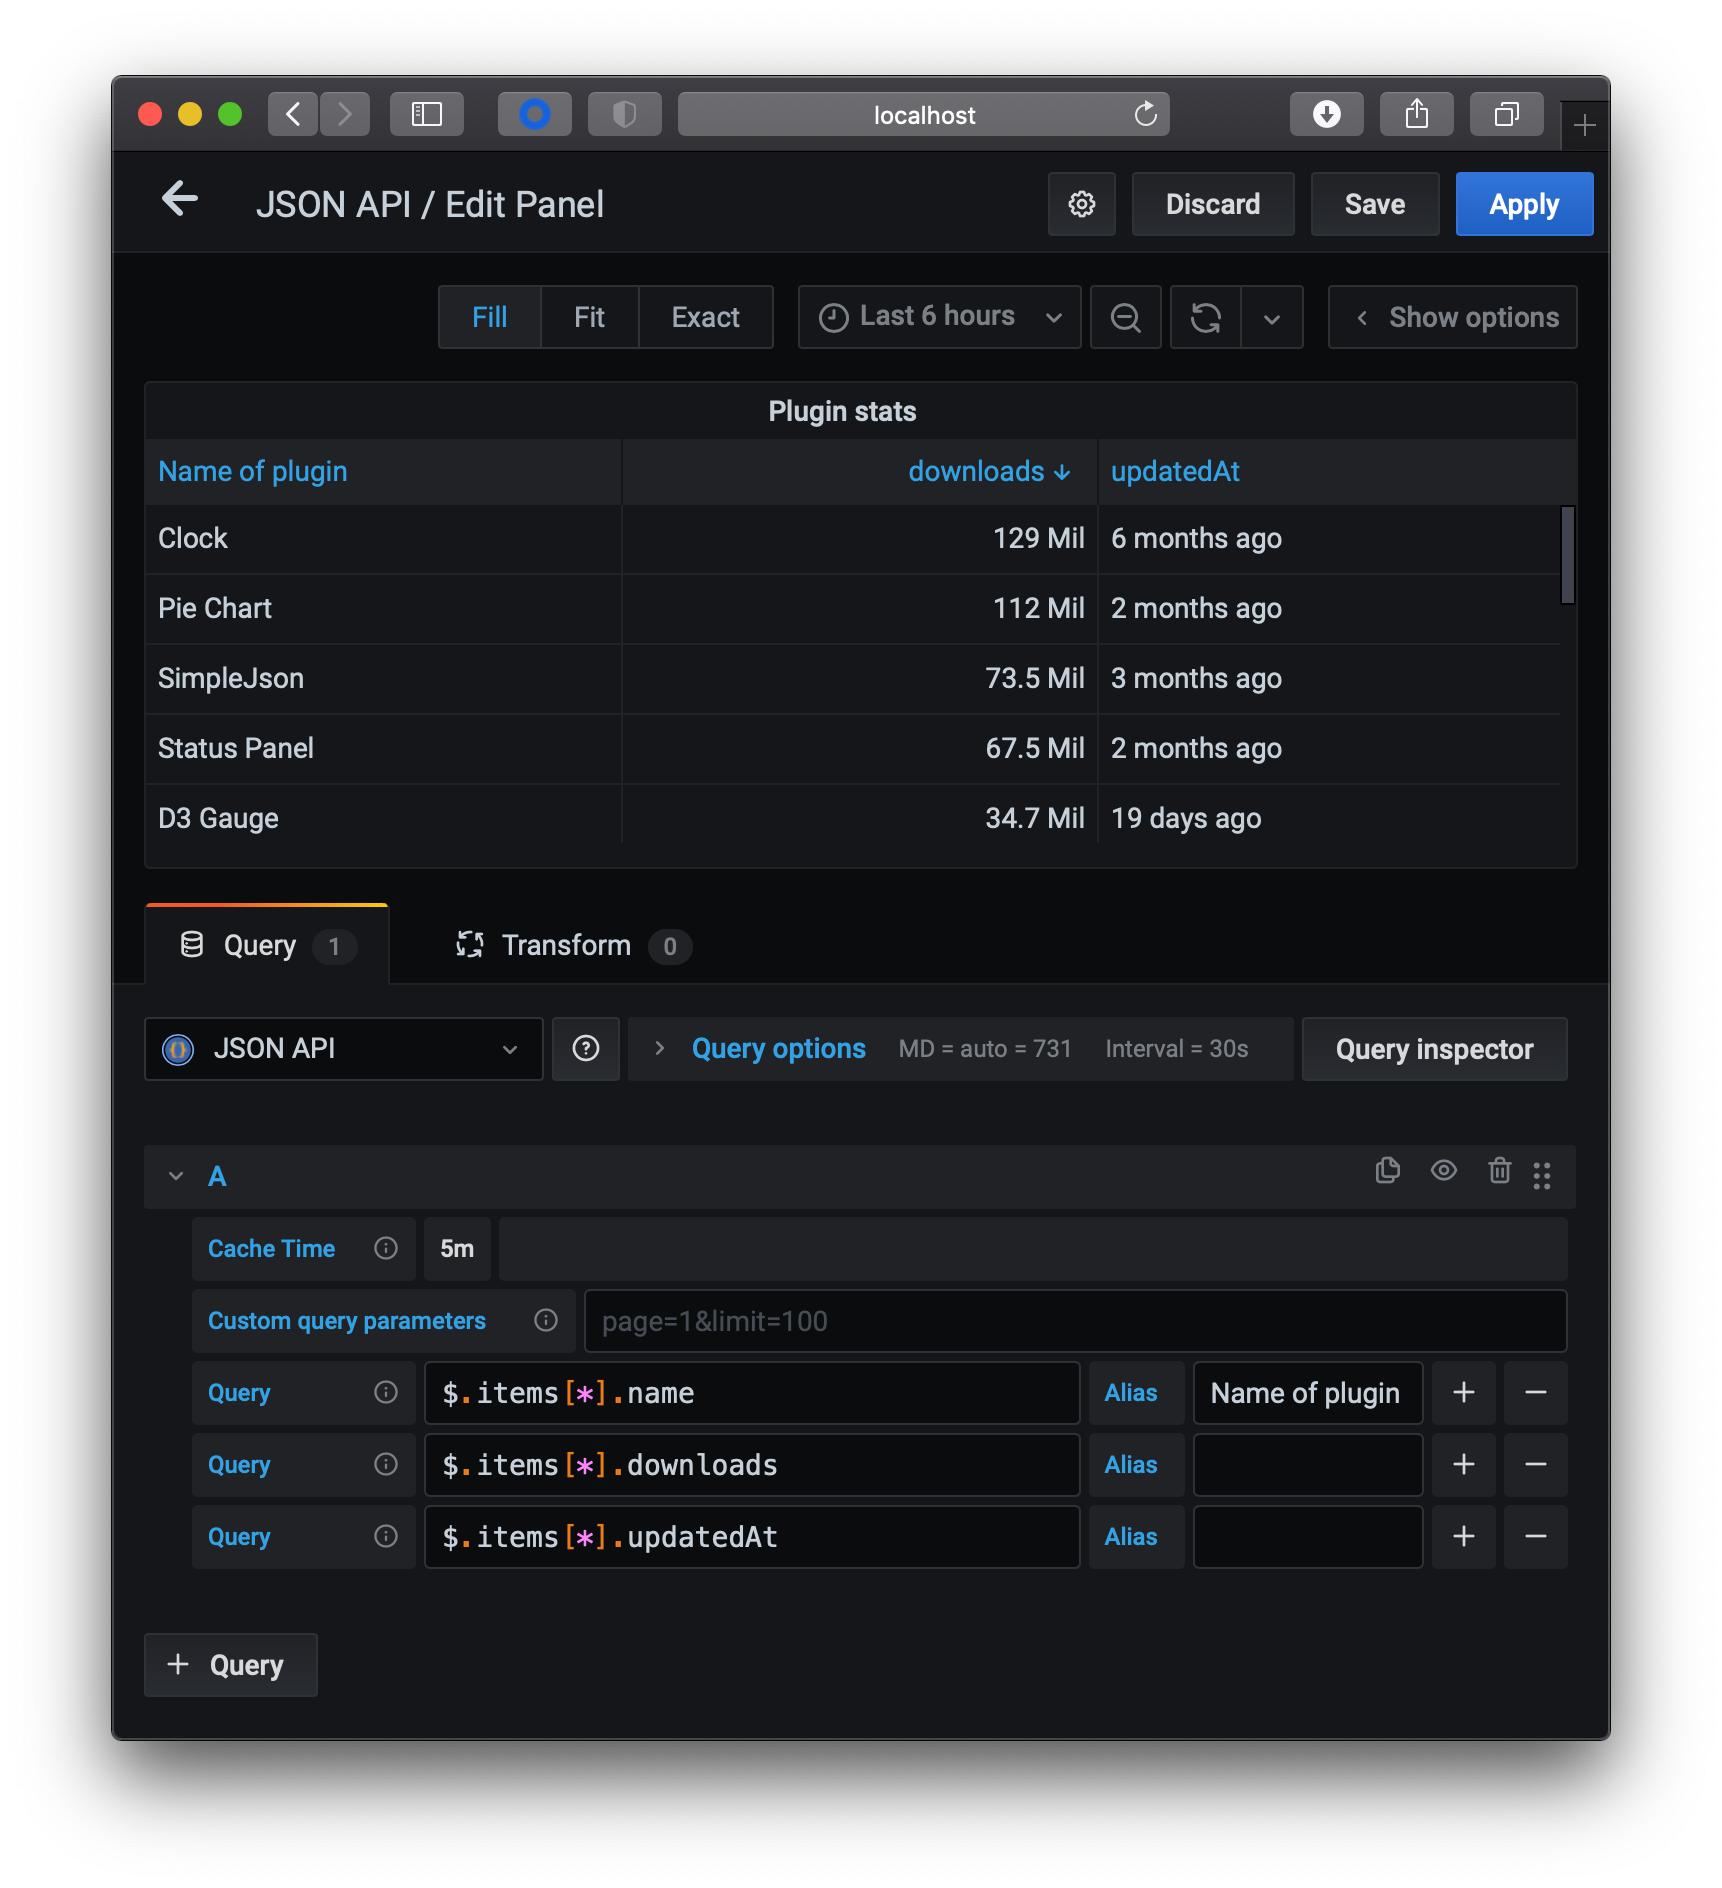
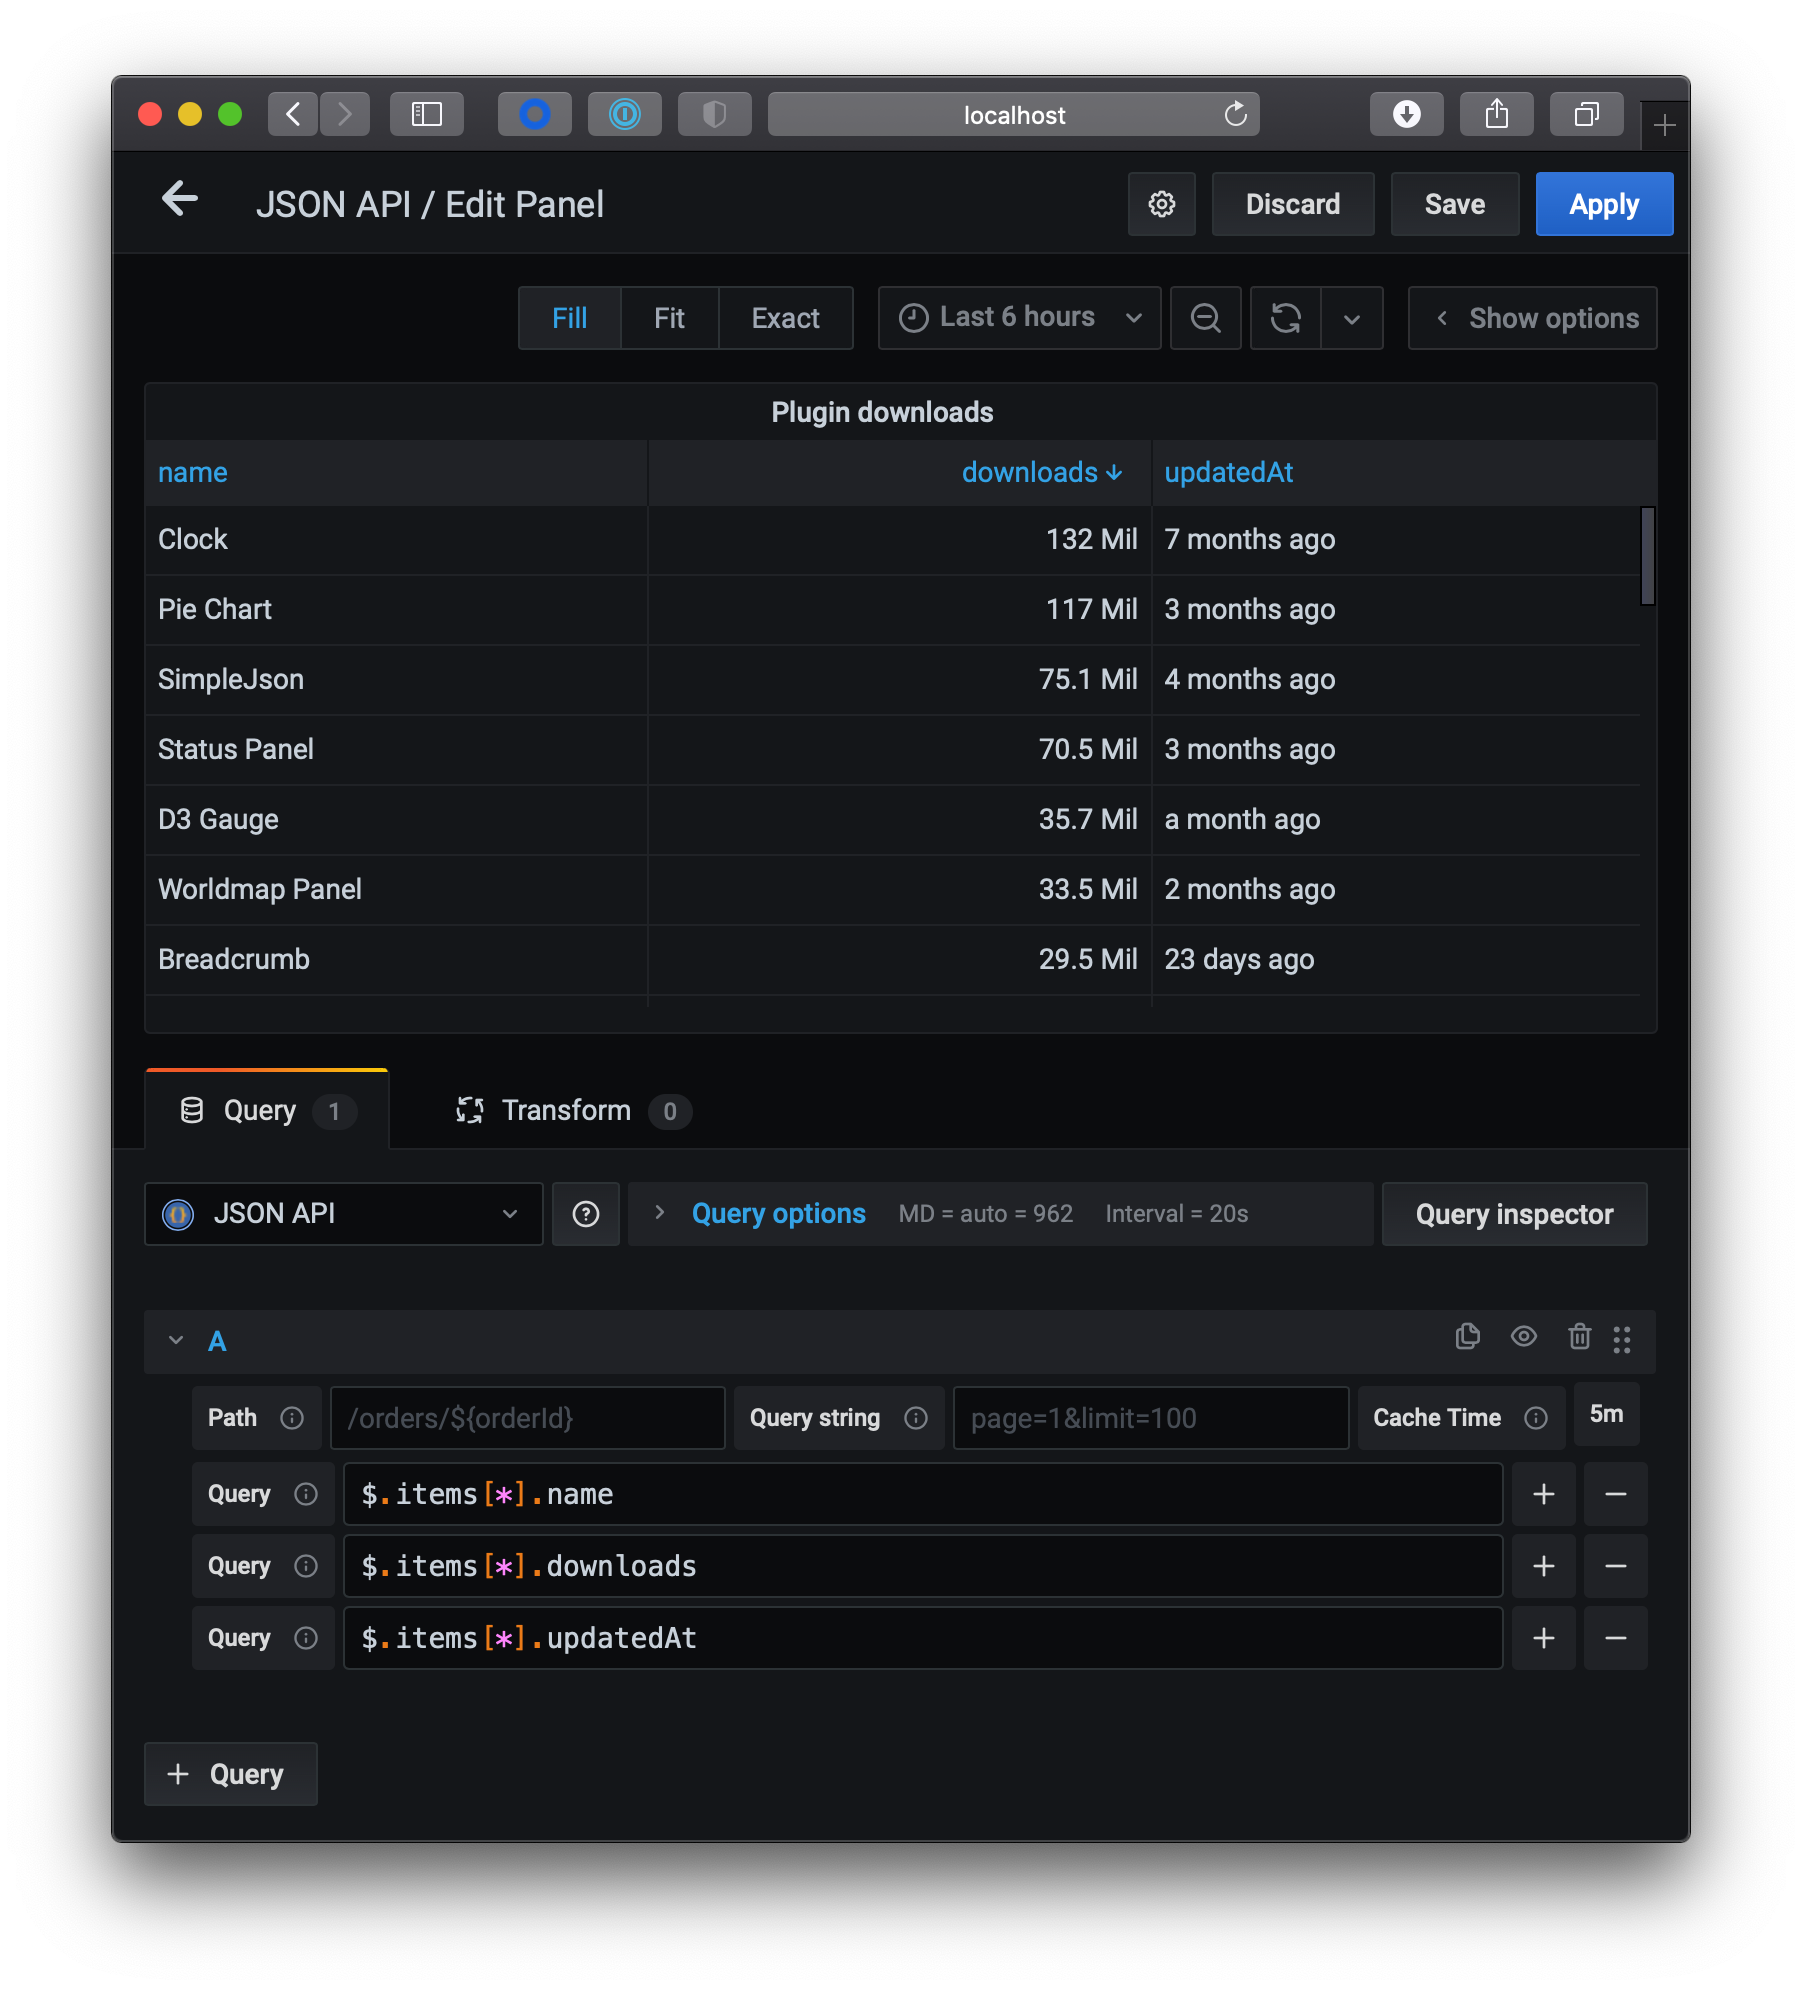
Add support for custom paths (#24)
* Add support for custom paths

* Fix variable query editor

* Update docs

diff --git a/src/api.ts b/src/api.ts
@@ -16,7 +16,7 @@ export default class Api {
   /**
    * Queries the API and returns the response data.
    */
-  async get(params?: string) {
+  async get(path: string, params?: string) {
     const data: Record<string, string> = {};
 
     this.params.forEach((value, key) => {
@@ -27,7 +27,7 @@ export default class Api {
       data[key] = value;
     });
 
-    const response = await this._request(data);
+    const response = await this._request(path, data);
 
     return response.data;
   }
@@ -42,41 +42,57 @@ export default class Api {
       data[key] = value;
     });
 
-    return this._request(data);
+    return this._request('', data);
   }
 
   /**
    * Returns a cached API response if it exists, otherwise queries the API.
    */
-  async cachedGet(cacheDurationSeconds: number, params: string) {
+  async cachedGet(cacheDurationSeconds: number, path: string, params: string) {
     if (cacheDurationSeconds === 0) {
-      return await this.get(params);
+      return await this.get(path, params);
     }
+
+    const rawUrl = this.baseUrl + path;
 
     const force = this.lastCacheDuration !== cacheDurationSeconds;
 
     if (force) {
-      this.cache.del(this.baseUrl);
+      this.cache.del(rawUrl);
     }
 
-    const cachedItem = this.cache.get(this.baseUrl);
+    const cachedItem = this.cache.get(rawUrl);
     if (cachedItem && !force) {
       return Promise.resolve(cachedItem);
     }
     this.lastCacheDuration = cacheDurationSeconds;
 
-    const result = await this.get(params);
+    const result = await this.get(path, params);
 
-    this.cache.put(this.baseUrl, result, Math.max(cacheDurationSeconds * 1000, 1));
+    this.cache.put(rawUrl, result, Math.max(cacheDurationSeconds * 1000, 1));
 
     return result;
   }
 
-  async _request(data?: Record<string, string>) {
+  /**
+   * Make an API request using the data source configuration as defaults.
+   * Allows the user to append a path, or override query parameters.
+   *
+   * @param path to append to URL
+   * @param data to set as query parameters
+   */
+  async _request(path: string, data?: Record<string, string>) {
     const req = {
-      url: `${this.baseUrl}`,
+      url: `${this.baseUrl}${path}`,
       method: 'GET',
     };
+
+    // Deduplicate forward slashes, i.e. /// becomes /. This enables sensible
+    // defaults for empty variables.
+    //
+    // For example, `/orgs/${orgId}/list` becomes `/orgs/list` instead of
+    // `/orgs//list`.
+    req.url = req.url.replace(/[\/]+/g, '/');
 
     if (data && Object.keys(data).length > 0) {
       req.url =

diff --git a/src/components/QueryEditor.tsx b/src/components/QueryEditor.tsx
@@ -35,6 +35,28 @@ export const QueryEditor: React.FC<Props> = ({ onRunQuery, onChange, query }) =>
     <>
       <InlineFieldRow>
         <InlineField
+          label="Path"
+          tooltip="Append a custom path to the data source URL. Should start with a forward slash (/)."
+          grow
+        >
+          <Input
+            placeholder="/orders/${orderId}"
+            value={query.urlPath}
+            onChange={e => onChange({ ...query, urlPath: e.currentTarget.value })}
+          />
+        </InlineField>
+        <InlineField
+          label="Query string"
+          tooltip="Add custom query parameters to your URL. Any parameters you add here overrides the custom parameters that have been configured by the data source."
+          grow
+        >
+          <Input
+            placeholder="page=1&limit=100"
+            value={query.queryParams}
+            onChange={e => onChange({ ...query, queryParams: e.currentTarget.value })}
+          />
+        </InlineField>
+        <InlineField
           label="Cache Time"
           tooltip="Time in seconds that the response will be cached in Grafana after receiving it."
         >
@@ -46,19 +68,6 @@ export const QueryEditor: React.FC<Props> = ({ onRunQuery, onChange, query }) =>
               description: value ? '' : 'Response is not cached at all',
             }))}
             onChange={({ value }) => onChange({ ...query, cacheDurationSeconds: value! })}
-          />
-        </InlineField>
-      </InlineFieldRow>
-      <InlineFieldRow>
-        <InlineField
-          label="Custom query parameters"
-          tooltip="Add custom parameters to your queries. Any parameters you add here overrides the custom parameters that have been configured by the data source."
-          grow
-        >
-          <Input
-            placeholder="page=1&limit=100"
-            value={query.queryParams}
-            onChange={e => onChange({ ...query, queryParams: e.currentTarget.value })}
           />
         </InlineField>
       </InlineFieldRow>

diff --git a/src/datasource.ts b/src/datasource.ts
@@ -35,8 +35,9 @@ export class DataSource extends DataSourceApi<JsonApiQuery, JsonApiDataSourceOpt
 
     const promises = request.targets.map(async query => {
       const queryParamsTreated = replaceMacros(templateSrv.replace(query.queryParams, request.scopedVars));
+      const urlPathTreated = templateSrv.replace(query.urlPath, request.scopedVars);
 
-      const response = await this.api.cachedGet(query.cacheDurationSeconds, queryParamsTreated);
+      const response = await this.api.cachedGet(query.cacheDurationSeconds, urlPathTreated, queryParamsTreated);
 
       const fields = query.fields
         .filter(field => field.jsonPath)
@@ -87,10 +88,16 @@ export class DataSource extends DataSourceApi<JsonApiQuery, JsonApiDataSourceOpt
       return [];
     }
 
-    const response = await this.api.get(query.queryParams);
+    const templateSrv = getTemplateSrv();
+
+    const queryParamsTreated = templateSrv.replace(query.queryParams);
+    const urlPathTreated = templateSrv.replace(query.urlPath);
+    const jsonPathTreated = templateSrv.replace(query.jsonPath);
+
+    const response = await this.api.get(urlPathTreated, queryParamsTreated);
 
     return JSONPath({
-      path: query.jsonPath,
+      path: jsonPathTreated,
       json: response,
     }).map((_: any) => ({ text: _ }));
   }

diff --git a/src/components/VariableQueryEditor.tsx b/src/components/VariableQueryEditor.tsx
@@ -20,14 +20,27 @@ export const VariableQueryEditor: React.FC<VariableQueryProps> = ({ onChange, qu
   };
 
   const onChangePath = (jsonPath: string) => setState({ ...state, jsonPath });
+  const onChangeUrlPath = (urlPath: string) => setState({ ...state, urlPath });
   const onQueryParams = (queryParams: string) => setState({ ...state, queryParams });
 
   return (
     <>
       <InlineFieldRow>
         <InlineField
-          label="Custom query parameters"
-          tooltip="Add custom parameters to your queries. Any parameters you add here overrides the custom parameters that have been configured by the data source."
+          label="Path"
+          tooltip="Append a custom path to the data source URL. Should start with a forward slash (/)."
+          grow
+        >
+          <Input
+            placeholder="/orders/${orderId}"
+            value={query.urlPath}
+            onChange={e => onChangeUrlPath(e.currentTarget.value)}
+            onBlur={saveQuery}
+          />
+        </InlineField>
+        <InlineField
+          label="Query string"
+          tooltip="Add custom query parameters to your URL. Any parameters you add here overrides the custom parameters that have been configured by the data source."
           grow
         >
           <Input

diff --git a/src/types.ts b/src/types.ts
@@ -9,22 +9,26 @@ export interface JsonApiQuery extends DataQuery {
   fields: JsonField[];
   cacheDurationSeconds: number;
   queryParams: string;
+  urlPath: string;
 }
 
 export interface JsonApiVariableQuery extends DataQuery {
   jsonPath: string;
   queryParams: string;
+  urlPath: string;
 }
 
 export const defaultQuery: Partial<JsonApiQuery> = {
   fields: [{ name: '', jsonPath: '' }],
   cacheDurationSeconds: 300,
   queryParams: '',
+  urlPath: '',
 };
 
 export const defaultVariableQuery: Partial<JsonApiVariableQuery> = {
   jsonPath: '',
   queryParams: '',
+  urlPath: '',
 };
 
 export interface JsonApiDataSourceOptions extends DataSourceJsonData {

diff --git a/src/components/ConfigEditor.tsx b/src/components/ConfigEditor.tsx
@@ -38,7 +38,7 @@ export const ConfigEditor: React.FC<Props> = ({ options, onOptionsChange }) => {
       to set them explicitly.  */}
       <h3 className="page-heading">Misc</h3>
       <InlineFieldRow>
-        <InlineField label="Custom query parameters" tooltip="Add custom parameters to your queries.">
+        <InlineField label="Query string" tooltip="Add a custom query string to your queries.">
           <Input
             width={50}
             value={options.jsonData.queryParams}

diff --git a/src/components/JsonPathQueryField.tsx b/src/components/JsonPathQueryField.tsx
@@ -12,6 +12,9 @@ interface Props {
  * JsonPathQueryField is an editor for JSON Path.
  */
 export const JsonPathQueryField: React.FC<Props> = ({ query, onBlur, onChange }) => {
+  /**
+   * The QueryField supports Slate plugins, so let's add a few useful ones.
+   */
   const plugins = [
     BracesPlugin(),
     SlatePrism({

diff --git a/README.md b/README.md
@@ -1,21 +1,40 @@
 # JSON API data source for Grafana
 
-[![License](https://img.shields.io/github/license/marcusolsson/grafana-jsonapi-datasource)](LICENSE)
+[![License](https://img.shields.io/github/license/marcusolsson/grafana-json-datasource)](LICENSE)
 [![PRs welcome!](https://img.shields.io/badge/PRs-welcome-brightgreen.svg)](#contribute)
-[![Build](https://github.com/marcusolsson/grafana-jsonapi-datasource/workflows/CI/badge.svg)](https://github.com/marcusolsson/grafana-jsonapi-datasource/actions?query=workflow%3A%22CI%22)
-[![Release](https://github.com/marcusolsson/grafana-jsonapi-datasource/workflows/Release/badge.svg)](https://github.com/marcusolsson/grafana-jsonapi-datasource/actions?query=workflow%3ARelease)
+[![Build](https://github.com/marcusolsson/grafana-json-datasource/workflows/CI/badge.svg)](https://github.com/marcusolsson/grafana-json-datasource/actions?query=workflow%3A%22CI%22)
+[![Release](https://github.com/marcusolsson/grafana-json-datasource/workflows/Release/badge.svg)](https://github.com/marcusolsson/grafana-json-datasource/actions?query=workflow%3ARelease)
 
 A data source plugin for loading JSON APIs into [Grafana](https://grafana.com).
 
-![Screenshot](https://github.com/marcusolsson/grafana-jsonapi-datasource/raw/master/src/img/screenshot.png)
+![Screenshot](https://github.com/marcusolsson/grafana-json-datasource/raw/master/src/img/screenshot.png)
 
 Extract one or more values from a JSON API using [JSON Path](https://goessner.net/articles/JsonPath/). Each path results in a field in the query result. All fields need to be of the same length.
 
-The field name defaults to the name of the property referenced by the JSON Path but can be set to an **Alias**. **This is going away in a future release, since Grafana now lets you rename any field.**
+## Configuration
 
-The **Cache Time** determines the time in seconds to save the API response.
+This section lists the available configuration options for the JSON API data source.
 
-**Custom query parameters** lets you override the query parameters configured by the data source.
+### Query editor
+
+| Configuration | Description |
+|---------------|-------------|
+| **Path** | Appends a URL path to the URL configured by the data source. |
+| **Query string** | Overrides the custom query parameters configured by the data source. |
+| **Cache Time** | Determines the time in seconds to save the API response. |
+| **Query** | Defines the [JSON Path](https://goessner.net/articles/JsonPath/) used to extract the field. |
+
+### Variables
+
+[Variables](https://grafana.com/docs/grafana/latest/variables) are supported for all text configuration options.
+
+### Macros
+
+Use macros in your query string and JSON Path queries to add dashboard context to your queries. Macros are available for the **Query string** and (JSON Path) **Query** options.
+| Macro | Description |
+|-------|-------------|
+| `$__unixEpochFrom()` | Start of the dashboard time interval as a Unix timestamp, i.e. 1494410783 |
+| `$__unixEpochTo()` | End of the dashboard time interval as a Unix timestamp, i.e. 1494410783 |
 
 ## Public data sets
 
@@ -42,7 +61,7 @@ List episodes from your favorite TV series.
 #### Configuration
 
 - **URL:** `http://api.tvmaze.com/singlesearch/shows`
-- **Custom query parameters:** `q=rick-&-morty&embed=episodes`
+- **Query string:** `q=archer&embed=episodes`
 
 #### Sample queries
 
